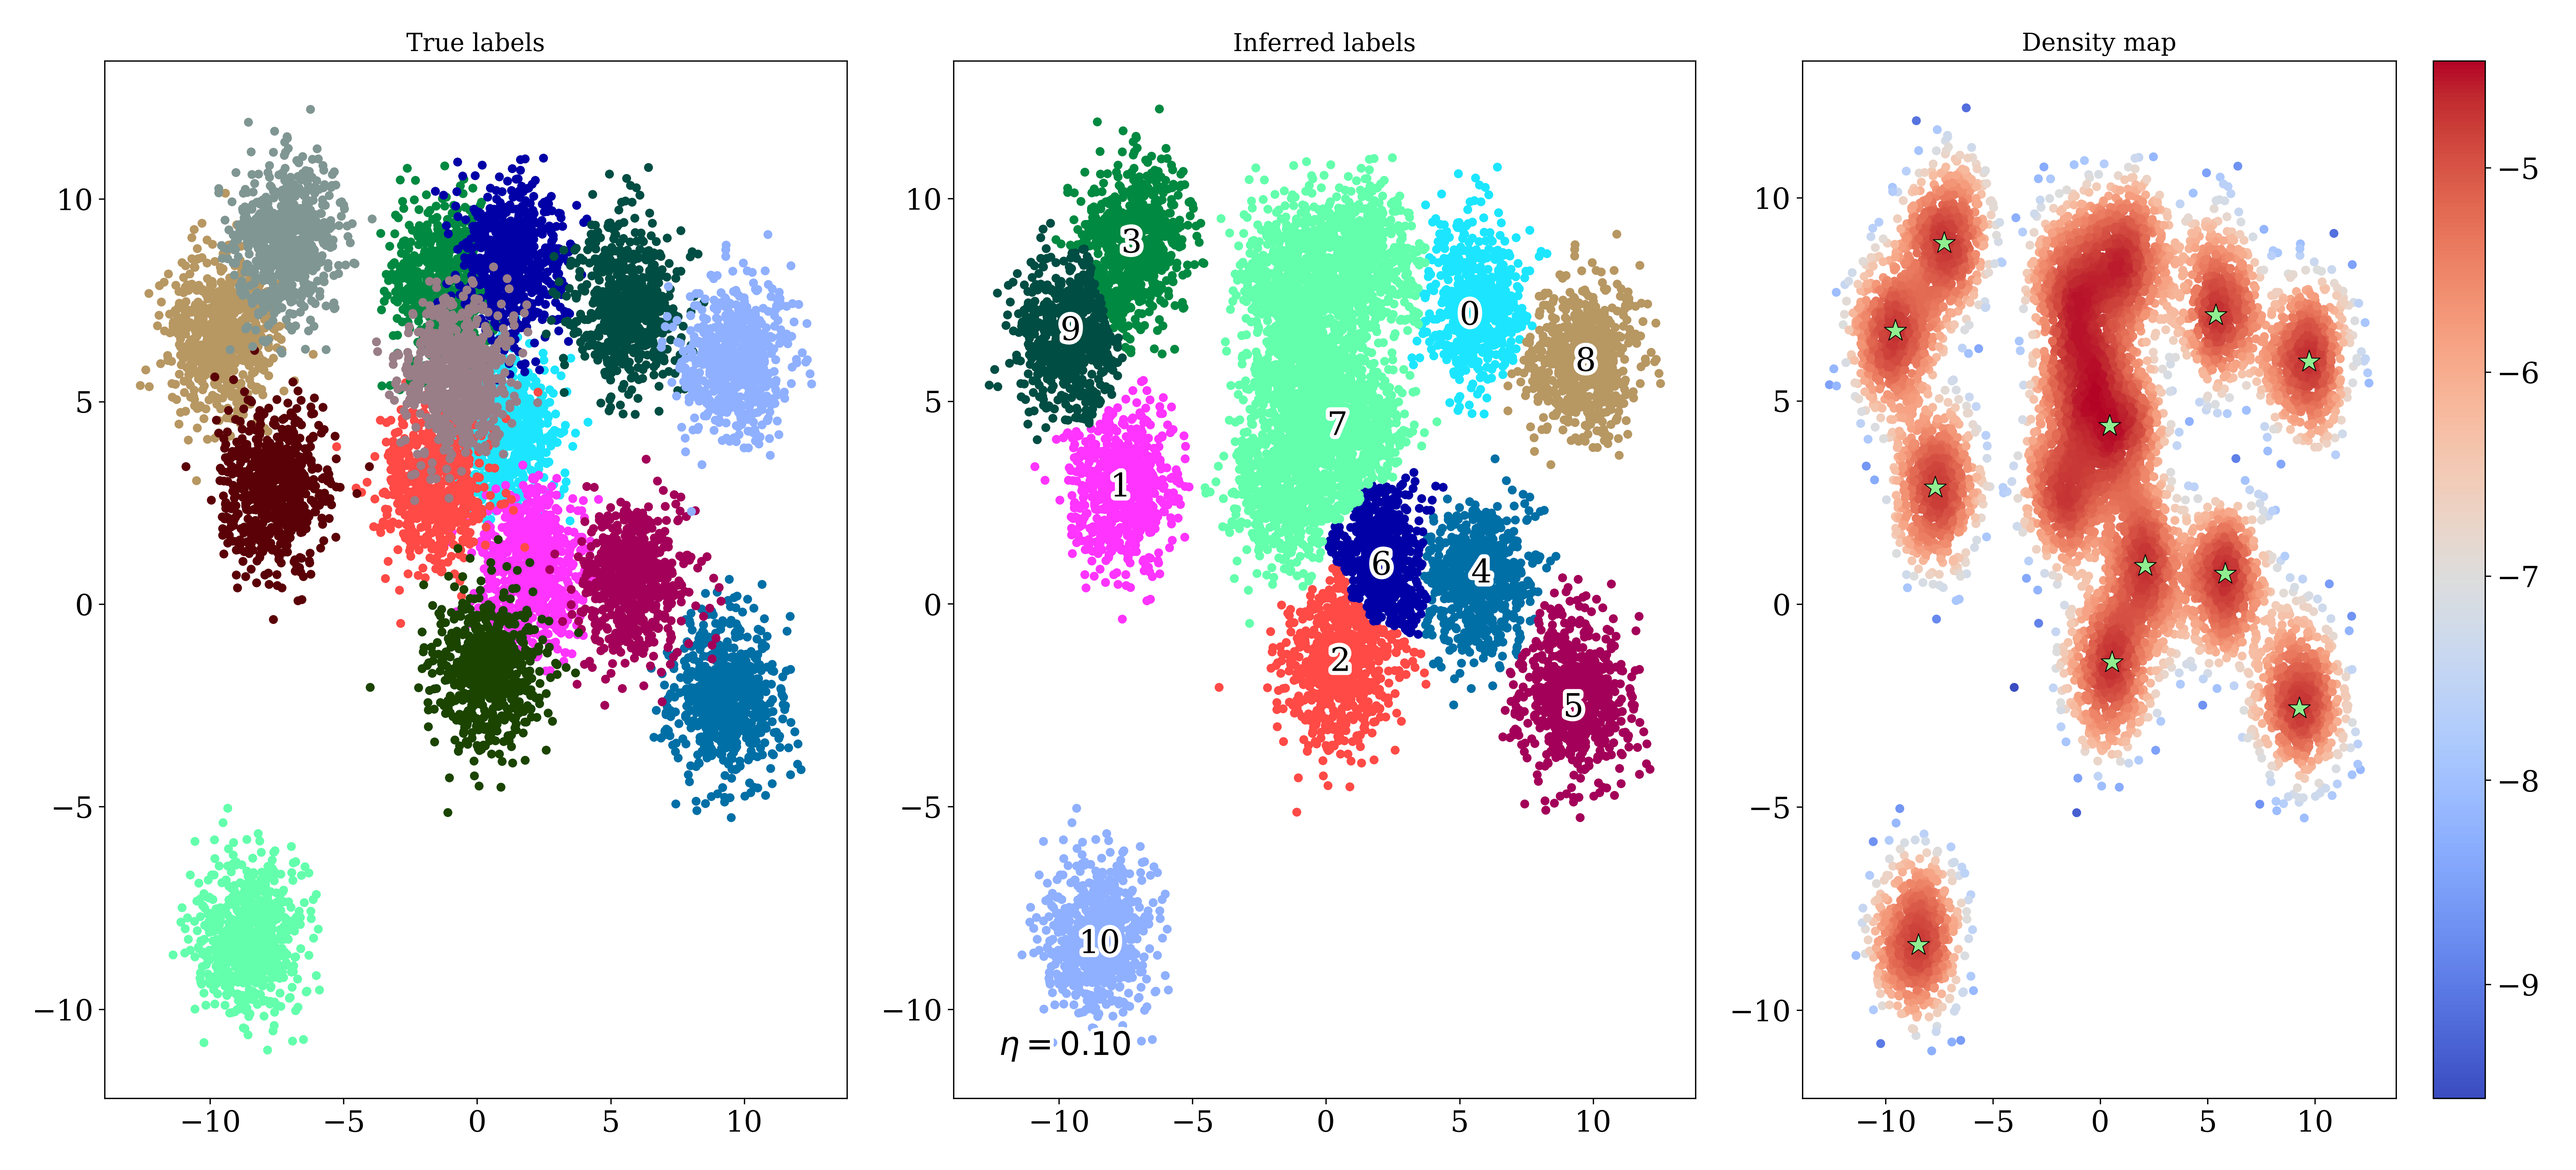
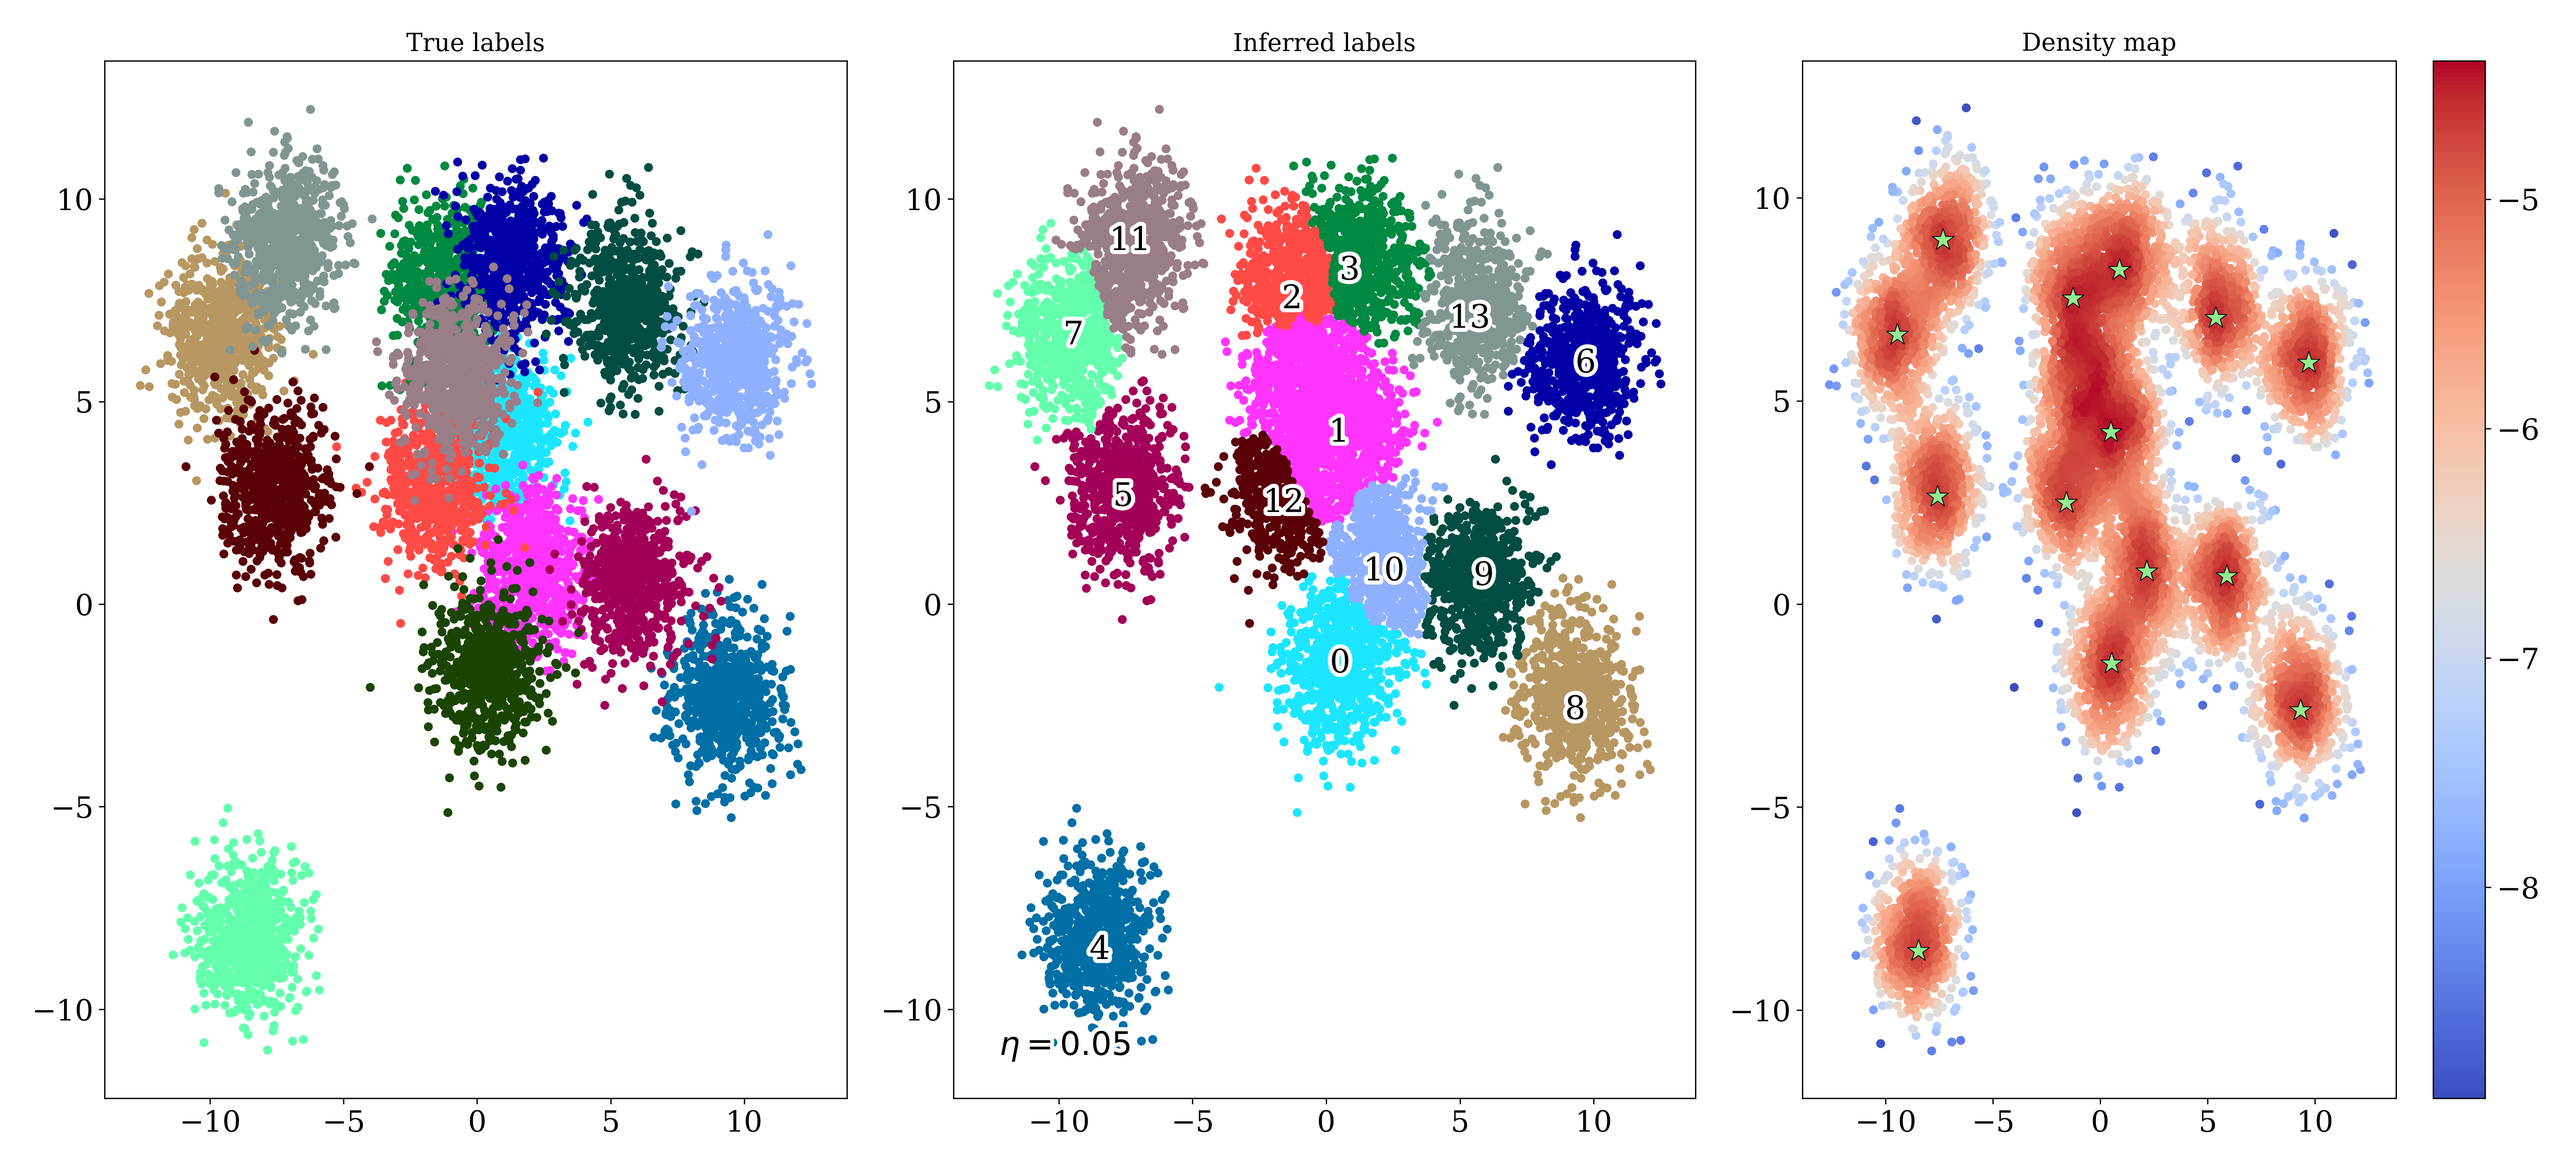
replot example

diff --git a/example/example.py b/example/example.py
@@ -21,7 +21,7 @@ print("------> Example with %i true cluster centers <-------"%n_true_center)
 
 X, y = make_blobs(10000, 2, n_true_center) # Generating random gaussian mixture
 
-model = FDC(eta=0.1)
+model = FDC(eta=0.05, test_ratio_size=0.1)
 
 model.fit(X) # performing the clustering
 
